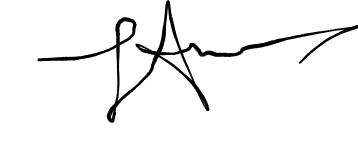
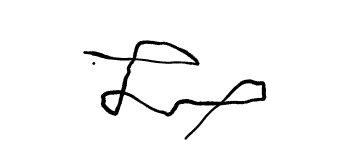
new changes

Changed region(s): [[0.0922, 0.0, 1.0, 0.9333]]

diff --git a/job/fetch_pending_projects.php b/job/fetch_pending_projects.php
@@ -25,21 +25,22 @@ $columns = [
     0 => "pi.project_no",
     1 => "pi.creation_date",
     2 => "pi.checklist_status",
-    3 => "pi.report_status",
-    4 => "pi.inspection_type",
-    5 => "pi.review_status",
-    6 => "pi.certificatestatus",
-    7 => "pi.customer_name",
-    8 => "pi.project_status",
-    9 => "pi.project_no", // Action Column placeholder
-    10 => "pi.equipment_id",
-    11 => "pi.checklist_type",
-    12 => "ci.sticker_no",
-    13 => "pi.project_no", // Certificate Column placeholder
-    14 => "pi.equipment_type",
-    15 => "pi.equipment_location",
-    16 => "pi.inspector_name",
-    17 => "pi.project_no"  // Delete/Action Column placeholder
+    3 => "pi.project_no", // Action Column placeholder
+    4 => "pi.checklist_status",
+    5 => "pi.report_status",
+    6 => "pi.inspection_type",
+    7 => "pi.review_status",
+    8 => "pi.certificatestatus",
+    9 => "pi.customer_name",
+    10 => "pi.project_status",
+    11 => "pi.equipment_id",
+    12 => "pi.checklist_type",
+    13 => "ci.sticker_no",
+    14 => "pi.project_no", // Certificate Column placeholder
+    15 => "pi.equipment_type",
+    16 => "pi.equipment_location",
+    17 => "pi.inspector_name",
+    18 => "pi.project_no"  // Delete/Action Column placeholder
 ];
 
 // Base Query - FORCED PENDING STATUS
@@ -275,6 +276,7 @@ foreach ($projects as $row) {
         $pNo,
         $date,
         $progressHtml,
+        $detailsBtn,
         $row['checklist_status'],
         $row['report_status'],
         ucwords(str_replace(['-', '_'], ' ', $row['inspection_type'] ?? 'N/A')),
@@ -282,7 +284,6 @@ foreach ($projects as $row) {
         ucfirst($row['certificatestatus']),
         $row['customer_name'],
         $statusBtn . $expiryBadge,
-        $detailsBtn,
         $row['equipment_id'],
         ucwords(str_replace(['-', '_'], ' ', $row['checklist_type'])),
         $row['sticker_no'] ?? 'N/A',

diff --git a/job/fetch_overall_jobs.php b/job/fetch_overall_jobs.php
@@ -25,21 +25,22 @@ $columns = [
     0 => "pi.project_no",
     1 => "pi.creation_date",
     2 => "pi.checklist_status",
-    3 => "pi.report_status",
-    4 => "pi.review_status",
-    5 => "pi.certificatestatus",
-    6 => "pi.customer_name",
-    7 => "pi.project_status",
-    8 => "pi.project_no", // Action Column placeholder
-    9 => "pi.equipment_id",
-    10 => "pi.checklist_type",
-    11 => "ci.sticker_no",
-    12 => "pi.project_no", // Certificate Column placeholder
-    13 => "pi.inspection_type",
-    14 => "pi.equipment_type",
-    15 => "pi.equipment_location",
-    16 => "pi.inspector_name",
-    17 => "pi.project_no" // Delete/Action Column placeholder
+    3 => "pi.project_no", // Action Column placeholder
+    4 => "pi.checklist_status",
+    5 => "pi.report_status",
+    6 => "pi.review_status",
+    7 => "pi.certificatestatus",
+    8 => "pi.customer_name",
+    9 => "pi.project_status",
+    10 => "pi.equipment_id",
+    11 => "pi.checklist_type",
+    12 => "ci.sticker_no",
+    13 => "pi.project_no", // Certificate Column placeholder
+    14 => "pi.inspection_type",
+    15 => "pi.equipment_type",
+    16 => "pi.equipment_location",
+    17 => "pi.inspector_name",
+    18 => "pi.project_no" // Delete/Action Column placeholder
 ];
 
 // Base Query
@@ -303,13 +304,13 @@ foreach ($projects as $row) {
         $pNo,
         $date,
         $progressHtml,
+        $detailsBtn,
         $row['checklist_status'],
         $row['report_status'],
         $row['review_status'],
         ucfirst($row['certificatestatus']),
         $row['customer_name'],
         $statusBtn . $expiryBadge,
-        $detailsBtn,
         $row['equipment_id'],
         ucwords(str_replace(['-', '_'], ' ', $row['checklist_type'])),
         $row['sticker_no'] ?? 'N/A',

diff --git a/job/pending_projects.php b/job/pending_projects.php
@@ -462,22 +462,22 @@ if (!$logged_in_user) {
           white-space: nowrap;
       }
 
-      table.dataTable thead th:nth-child(8),
-      table.dataTable tbody td:nth-child(8) {
+      table.dataTable thead th:nth-child(9),
+      table.dataTable tbody td:nth-child(9) {
           width: 170px !important;
           min-width: 170px !important;
           max-width: 170px !important;
       }
 
-      table.dataTable thead th:nth-child(11),
-      table.dataTable tbody td:nth-child(11) {
+      table.dataTable thead th:nth-child(4),
+      table.dataTable tbody td:nth-child(4) {
           width: 130px !important;
           min-width: 130px !important;
           max-width: 130px !important;
       }
 
-      table.dataTable tbody td:nth-child(11),
-      table.dataTable tbody td:nth-child(8) {
+      table.dataTable tbody td:nth-child(4),
+      table.dataTable tbody td:nth-child(9) {
           white-space: normal !important;
           overflow-wrap: anywhere;
           word-break: break-word;
@@ -707,6 +707,7 @@ if (!$logged_in_user) {
                         <th>Project ID</th>
                         <th>Date</th>
                         <th>Progress</th>
+                        <th>Action</th>
                         <th>Checklist</th>
                         <th>Report</th>
                         <th>Inspection Type</th>
@@ -714,7 +715,6 @@ if (!$logged_in_user) {
                         <th>Certificate</th>
                         <th>Customer</th>
                         <th>Status</th>
-                        <th>Action</th>
                         <th>Equip.ID</th>
                         <th>Checklist Name</th>
                         <th>Sticker No</th>

diff --git a/job/fetch_overall_filters.php b/job/fetch_overall_filters.php
@@ -1,16 +1,19 @@
 <?php
+session_start();
 include_once('../file/config.php');
 
-// Fetch All unique Inspectors, Clients, Years
-// This is used for dropdown population.
-// We might want to respect role restrictions here too? Usually yes.
-// But mostly this is for 'admin' who sees everything.
-// Let's keep it simple: fetch all distinct. Frontend logic or role access will limit visibility if needed, 
-// but filters usually show all options unless data is strictly siloed.
-// If role is restricted, 'fetch_overall_jobs.php' handles the data restriction.
-// Filters can show all, but selecting one not assigned to you will just yield 0 results.
+$role = $_SESSION['role'] ?? '';
+$user = $_SESSION['username'] ?? '';
 
-$where = " WHERE 1=1 "; // No specific filter other than not null
+$where = " WHERE 1=1 "; 
+
+if (!in_array($role, ['admin', 'reviewer', 'quality controller', 'document controller'])) {
+    if ($role === 'customer') {
+        $where .= " AND customer_name = '" . $conn->real_escape_string($user) . "' ";
+    } else {
+        $where .= " AND inspector_name = '" . $conn->real_escape_string($user) . "' ";
+    }
+}
 
 $inspectors = [];
 $res = $conn->query("SELECT DISTINCT inspector_name FROM project_info $where AND inspector_name IS NOT NULL AND inspector_name != '' ORDER BY inspector_name ASC");

diff --git a/job/overall-job-list.php b/job/overall-job-list.php
@@ -468,14 +468,14 @@ if (!$logged_in_user) {
           max-width: 170px !important;
       }
 
-      table.dataTable thead th:nth-child(11),
-      table.dataTable tbody td:nth-child(11) {
+      table.dataTable thead th:nth-child(4),
+      table.dataTable tbody td:nth-child(4) {
           width: 130px !important;
           min-width: 130px !important;
           max-width: 130px !important;
       }
 
-      table.dataTable tbody td:nth-child(11),
+      table.dataTable tbody td:nth-child(4),
       table.dataTable tbody td:nth-child(8) {
           white-space: normal !important;
           overflow-wrap: anywhere;
@@ -713,13 +713,13 @@ if (!$logged_in_user) {
                         <th>Project ID</th>
                         <th>Date</th>
                         <th>Progress</th>
+                        <th>Action</th>
                         <th>Checklist</th>
                         <th>Report</th>
                         <th>Reviewer</th>
                         <th>Certificate</th>
                         <th>Customer</th>
                         <th>Status</th>
-                        <th>Action</th>
                         <th>Equip.ID</th>
                         <th>Checklist Name</th>
                         <th>Sticker No</th>

diff --git a/document/checklist/type/get-checklist.php b/document/checklist/type/get-checklist.php
@@ -62,7 +62,7 @@ if (!empty($checklist_no)) {
     ?>
     <script>
     document.addEventListener("DOMContentLoaded", function() {
-        const selector = 'input[name="report_no"], input[name="header_client_name"], input[name="client_name"], input[name="inspected_by"], input[id="clientName"]';
+        const selector = 'input[name="report_no"], input[name="header_client_name"], input[name="inspected_by"]';
         document.querySelectorAll(selector).forEach(function(el) {
             el.setAttribute("readonly", "readonly");
             el.style.backgroundColor = "#e9ecef";

diff --git a/sticker/fetch_stickers.php b/sticker/fetch_stickers.php
@@ -122,8 +122,8 @@ $recordsFiltered = $stmtFiltered->get_result()->fetch_assoc()['total'] ?? 0;
 $stmtFiltered->close();
 
 // Ordering
-$orderColumnIndex = $_POST['order'][0]['column'] ?? 3;
-$orderColumn = $columns[$orderColumnIndex] ?? "created_at";
+$orderColumnIndex = $_POST['order'][0]['column'] ?? 0;
+$orderColumn = $columns[$orderColumnIndex] ?? "sticker_start_no";
 $orderDir = $_POST['order'][0]['dir'] ?? 'desc';
 $orderBy = " ORDER BY $orderColumn $orderDir ";
 

diff --git a/sticker/sticker-list.php b/sticker/sticker-list.php
@@ -177,7 +177,7 @@ $(document).ready(function() {
         autoWidth: false,
         pageLength: 25,
         lengthMenu: [10, 25, 50, 100],
-        order: [[3, 'desc']],
+        order: [[0, 'desc']],
 
         ajax: {
             url: 'fetch_stickers.php',
